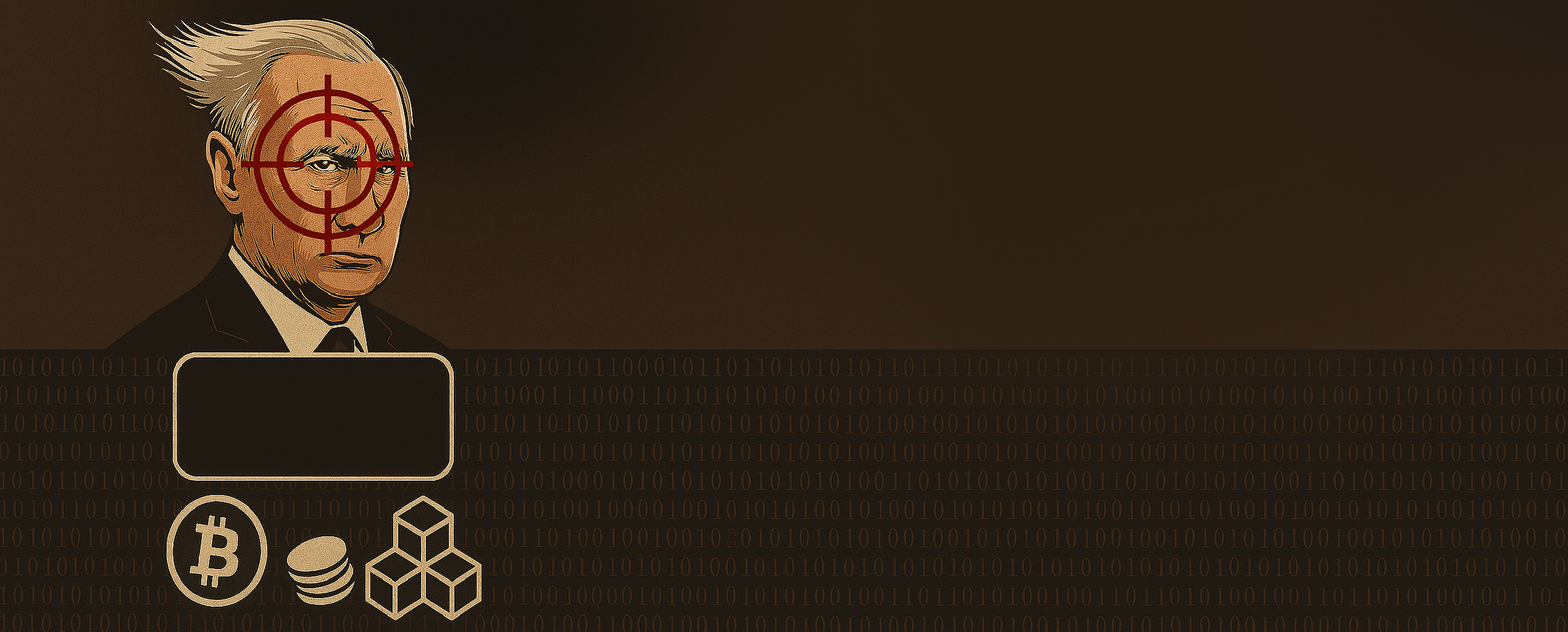
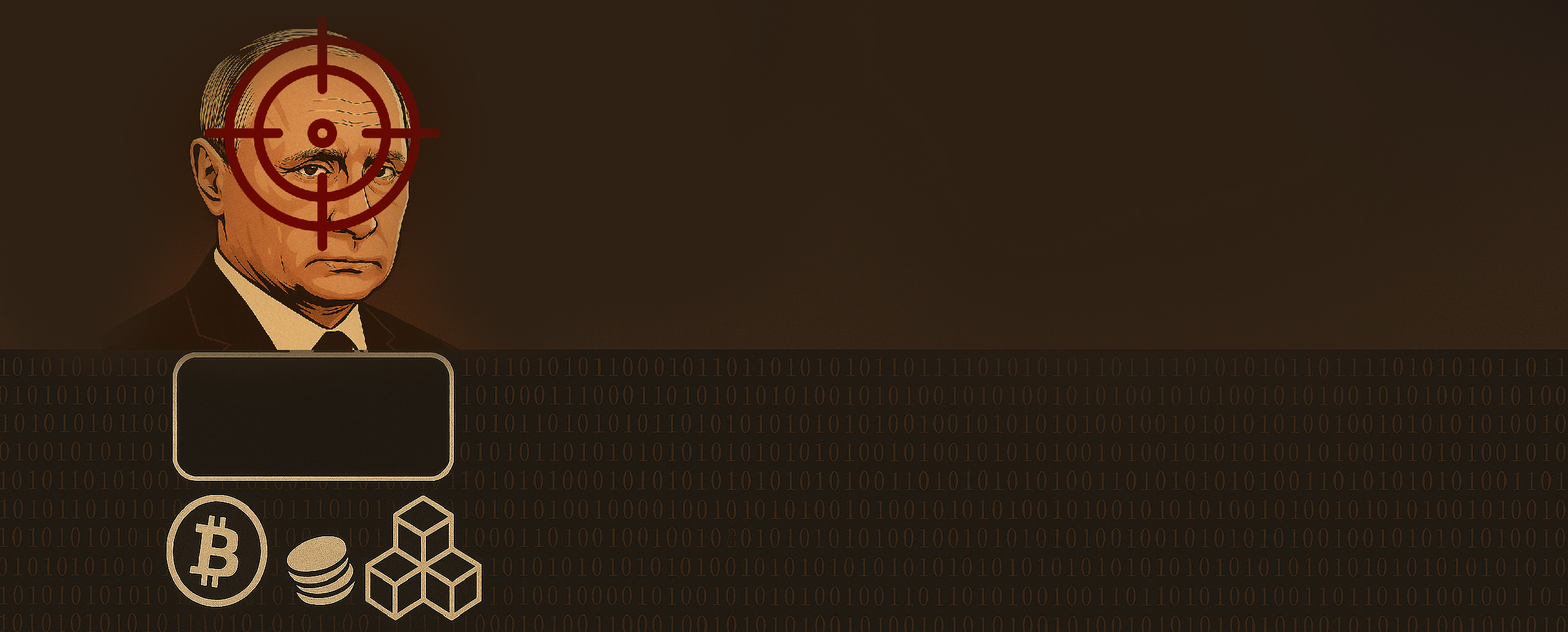
last

Changed region(s): [[0.0933, 0.0312, 0.311, 0.5938], [0.0933, 0.5625, 0.1244, 0.5938]]

diff --git a/puylo/index.html b/puylo/index.html
@@ -19,28 +19,28 @@
       align-items: center;
       justify-content: center;
       text-align: center;
-      background: url('puylo.jpg') no-repeat center center;
-      background-size: contain;
+      background: url('puylo.jpg') no-repeat;
+      background-size: cover;
       background-color: black;
     }
 
     .card {
       position: absolute;
-      top: 40px;
-      right: 40px;
-      background: rgba(0, 0, 0, 0.6);
-      padding: 2rem;
+      top: 58dvh;
+      left: 13.5dvw;
+      /* background: rgba(0, 0, 0, 0.6); */
+      padding: 1.3rem;
       border-radius: 10px;
-      max-width: 80%;
+      max-width: 90%;
     }
     .card2 {
       position: absolute;
       top: 40px;
       right: 40px;
-      background: rgba(0, 0, 0, 0.6);
+      /* background: rgba(0, 0, 0, 0.6); */
       padding: 2rem;
       border-radius: 10px;
-      max-width: 80%;
+      max-width: 90%;
     }
 
     h1 {
@@ -79,7 +79,7 @@
   left: 50%;
   transform: translate(-50%, -50%);
   width: 95vw;
-  padding: 0.4rem;
+  padding: 1rem;
 }
 .card2 {
   position: absolute;
